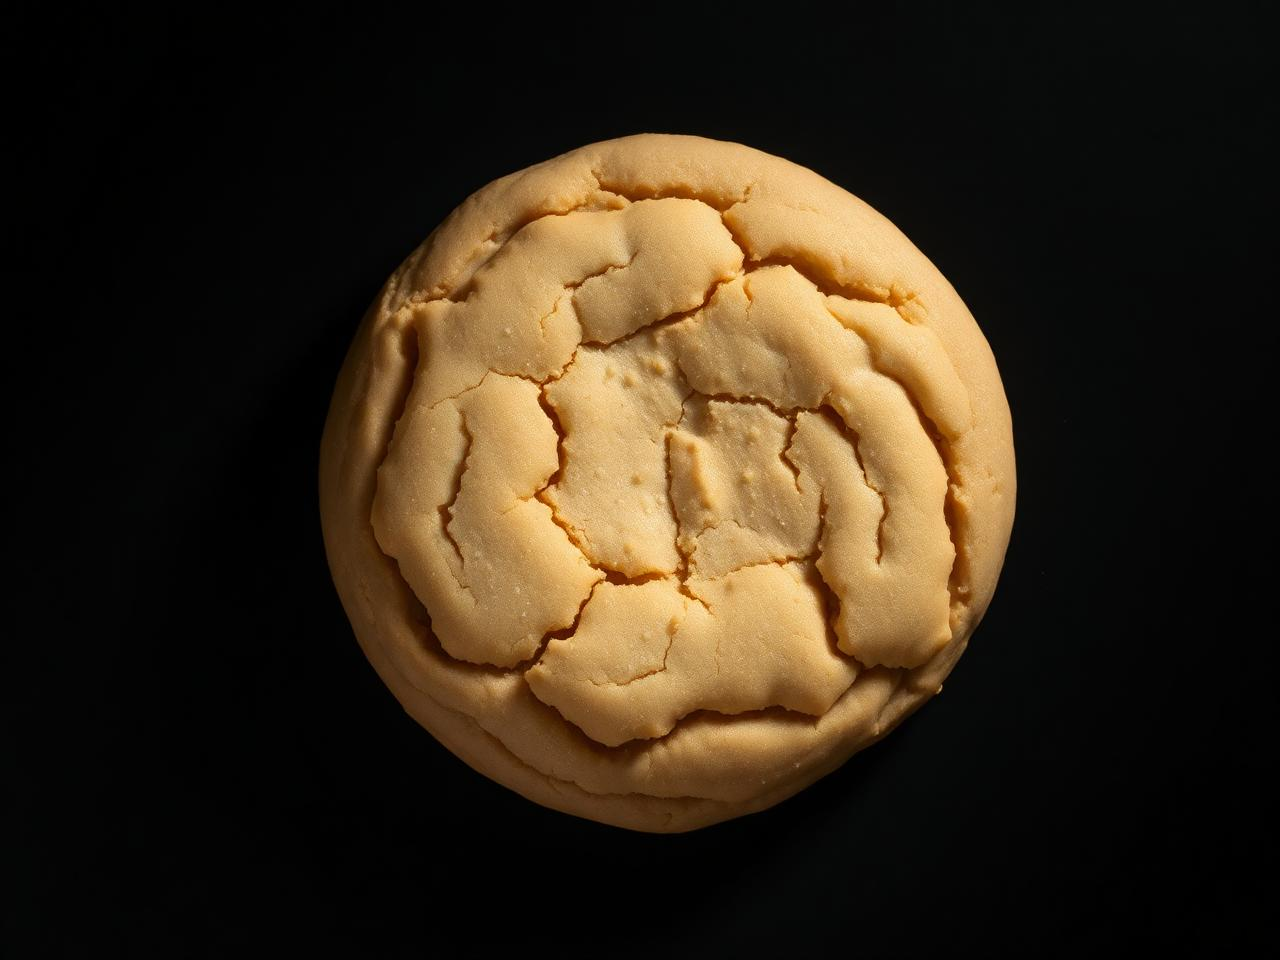
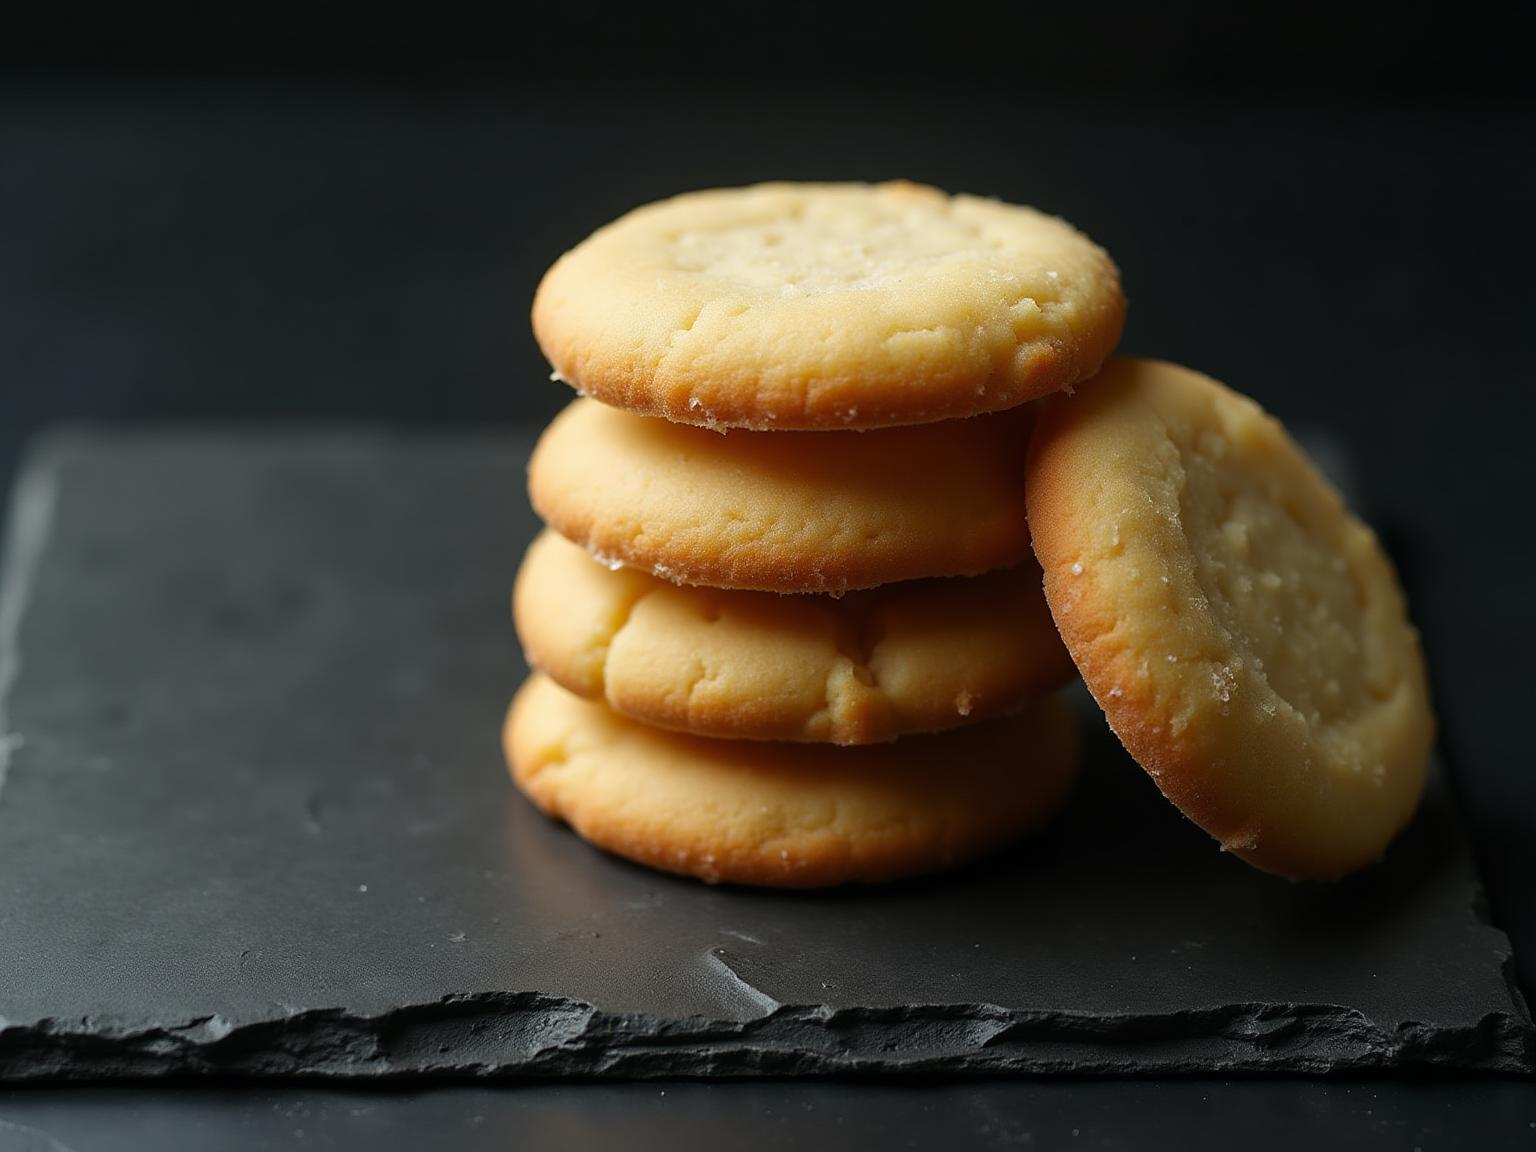
Update butter cake cookie image
Recreate butter cake cookie image with 3 or more cookies stacked, in a dark, moody, high-resolution, pro studio style. Also, add the butter cake cookie to the top of the page, centered directly under the top banner.

diff --git a/src/pages/Index.tsx b/src/pages/Index.tsx
@@ -79,7 +79,7 @@ const Index = () => {
       price: 5.0,
       rating: 4.9,
       image: imgButterCake,
-      imageAlt: "Butter cake cookie dusted with sugar, dark moody premium studio shot",
+      imageAlt: "Stack of butter cake cookies, dark moody premium studio shot",
       description: "Rich, buttery cake-style cookie with delicate crumb and vanilla.",
       category: "Cookie of the Month",
     },
@@ -153,6 +153,31 @@ const Index = () => {
           <div className="rounded-lg border border-primary/20 bg-card/60 backdrop-blur p-4 text-center">
             <p className="text-xs md:text-sm uppercase tracking-wide text-primary">Cookie of the Month</p>
             <p className="text-base md:text-lg font-semibold">Butter Cake Cookie — Here for a limited time</p>
+          </div>
+        </div>
+      </section>
+
+      {/* Featured Cookie - Butter Cake */}
+      <section aria-label="Featured Butter Cake Cookie" className="py-10">
+        <div className="container mx-auto px-4">
+          <div className="max-w-2xl mx-auto">
+            <Card className="overflow-hidden text-center group hover:shadow-xl transition-all duration-300">
+              <div className="aspect-[4/3] w-full overflow-hidden border-b bg-secondary/30">
+                <img
+                  src={imgButterCake}
+                  alt="Stack of butter cake cookies, dark moody premium studio shot"
+                  loading="lazy"
+                  className="h-full w-full object-cover transition-transform duration-300 group-hover:scale-105"
+                />
+              </div>
+              <CardContent className="pt-6">
+                <h3 className="text-2xl font-bold mb-2">Butter Cake Cookie</h3>
+                <p className="text-muted-foreground mb-4">Here for a limited time — just $5 each.</p>
+                <Link to="/order">
+                  <Button size="lg">Order Now</Button>
+                </Link>
+              </CardContent>
+            </Card>
           </div>
         </div>
       </section>
